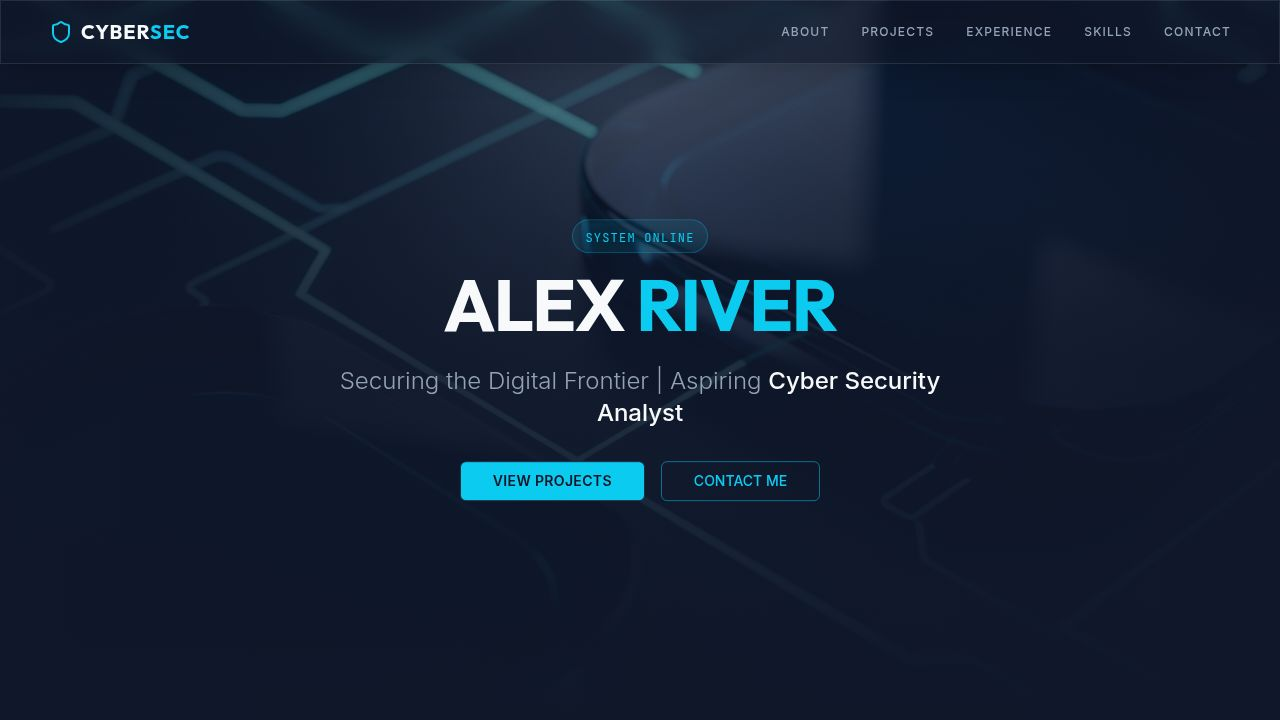
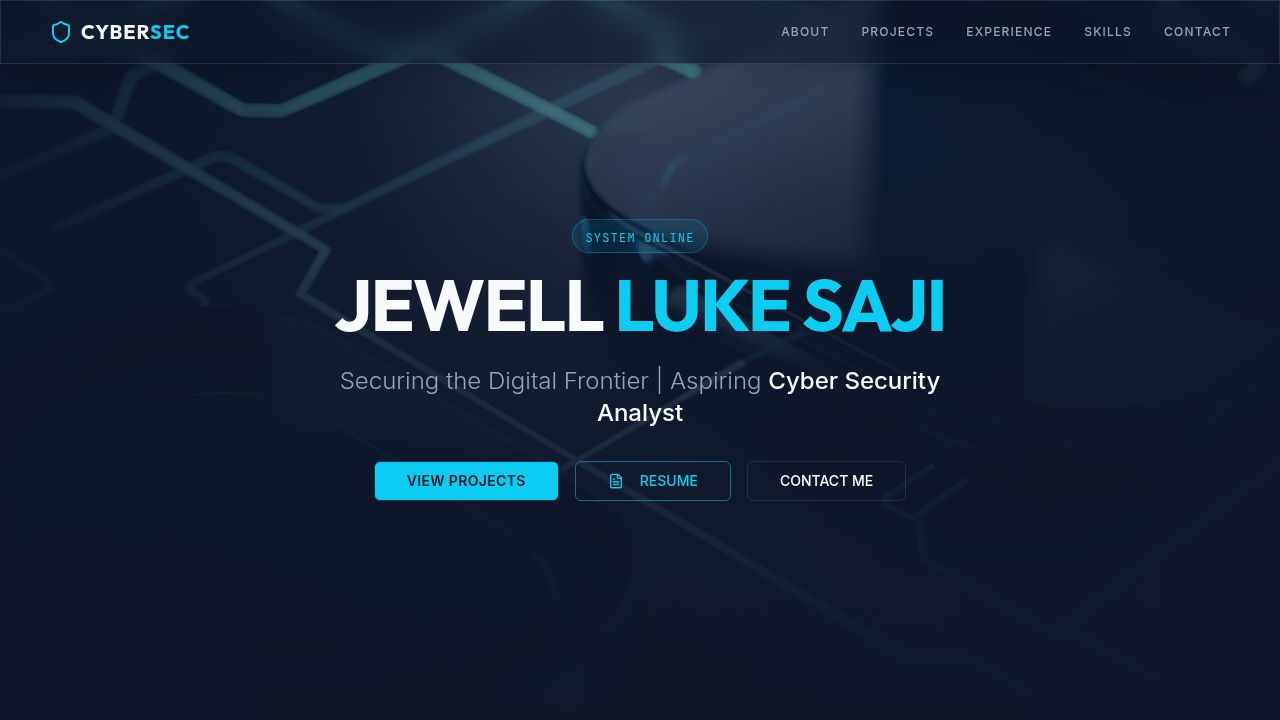
Update personal and project details with resume information
Update "About Me," "Education," and "Projects" sections with specific details from the user's resume, including education, experience, and project descriptions.

Replit-Commit-Author: Agent
Replit-Commit-Session-Id: 1b6a34a4-31a6-4b95-8f8d-f1db7a25d65b
Replit-Commit-Checkpoint-Type: full_checkpoint
Replit-Commit-Event-Id: 8cd7cf15-80bc-44f0-8134-2f22550af903
Replit-Commit-Screenshot-Url: https://storage.googleapis.com/screenshot-production-us-central1/002f4973-57d3-48a6-8c58-05c2b1284e81/1b6a34a4-31a6-4b95-8f8d-f1db7a25d65b/ySwC7YW
Replit-Helium-Checkpoint-Created: true

Changed region(s): [[0.25, 0.3667, 0.75, 0.4583], [0.2812, 0.6417, 0.6875, 0.7028]]

diff --git a/client/src/pages/home.tsx b/client/src/pages/home.tsx
@@ -158,18 +158,18 @@ export default function Home() {
             <div className="grid md:grid-cols-2 gap-12 items-center">
               <div className="space-y-6 text-muted-foreground leading-relaxed">
                 <p>
-                  I am a dedicated Cyber Security enthusiast with a passion for uncovering vulnerabilities and securing digital infrastructures. Currently finishing my degree in Computer Science with a specialization in Information Security.
+                  Certified cybersecurity professional with hands-on expertise in Vulnerability Assessment and Penetration Testing (VAPT). I specialize in host-based auditing, web application security testing, and offensive security methodologies.
                 </p>
                 <p>
-                  My journey began with a curiosity about how systems break, which evolved into a mission to learn how to fix and protect them. I actively participate in CTF competitions and spend my free time analyzing new malware trends.
+                  With a Top 1% ranking on TryHackMe and extensive experience in VAPT for startups, I leverage technical skills to identify and remediate security vulnerabilities. I am passionate about research and developing custom security tools.
                 </p>
                 
                 <div className="pt-4">
                   <h3 className="text-foreground font-semibold mb-3">Education</h3>
                   <div className="border-l-2 border-primary/30 pl-4">
-                    <h4 className="text-lg text-white">B.S. Computer Science</h4>
-                    <p className="text-sm">Tech University • 2021 - Present</p>
-                    <p className="text-xs mt-1 text-primary">Focus: Network Security & Cryptography</p>
+                    <h4 className="text-lg text-white">B.Sc Digital and Cyber Forensics</h4>
+                    <p className="text-sm">Rathinam College of Arts and Science • 2026</p>
+                    <p className="text-xs mt-1 text-primary">Focus: VAPT & Digital Forensics</p>
                   </div>
                 </div>
               </div>
@@ -211,14 +211,14 @@ export default function Home() {
               <div className="h-12 w-12 rounded-lg bg-primary/10 flex items-center justify-center mb-6">
                 <Terminal className="w-6 h-6 text-primary" />
               </div>
-              <h3 className="text-xl font-bold mb-2">Network Packet Sniffer</h3>
+              <h3 className="text-xl font-bold mb-2">Recon Automation Tool</h3>
               <p className="text-muted-foreground text-sm mb-4">
-                A Python-based tool built with Scapy to capture and analyze network traffic in real-time. Identifies HTTP headers and flags suspicious packets.
+                Python-based automation tool for pentest reconnaissance. Automates host scanning, directory enumeration, and subdomain discovery to reduce manual testing time by 60%.
               </p>
               <div className="flex flex-wrap gap-2 mb-6">
                 <span className="text-xs px-2 py-1 rounded bg-secondary text-primary border border-primary/20">Python</span>
-                <span className="text-xs px-2 py-1 rounded bg-secondary text-primary border border-primary/20">Scapy</span>
-                <span className="text-xs px-2 py-1 rounded bg-secondary text-primary border border-primary/20">Wireshark</span>
+                <span className="text-xs px-2 py-1 rounded bg-secondary text-primary border border-primary/20">Automation</span>
+                <span className="text-xs px-2 py-1 rounded bg-secondary text-primary border border-primary/20">Recon</span>
               </div>
               <a href="#" className="inline-flex items-center gap-2 text-sm font-medium hover:text-primary transition-colors">
                 View on GitHub <ExternalLink className="w-3 h-3" />
@@ -230,14 +230,14 @@ export default function Home() {
               <div className="h-12 w-12 rounded-lg bg-primary/10 flex items-center justify-center mb-6">
                 <Lock className="w-6 h-6 text-primary" />
               </div>
-              <h3 className="text-xl font-bold mb-2">Port Scanner V2</h3>
+              <h3 className="text-xl font-bold mb-2">Chess File Encryption</h3>
               <p className="text-muted-foreground text-sm mb-4">
-                Multi-threaded port scanner that identifies open ports and banner grabs service versions. Optimized for speed and low footprint.
+                Custom encryption system using chess move sequences to generate keys. Implements SHA-256/HKDF to harden sequences against guessing attacks.
               </p>
               <div className="flex flex-wrap gap-2 mb-6">
+                <span className="text-xs px-2 py-1 rounded bg-secondary text-primary border border-primary/20">Cryptography</span>
                 <span className="text-xs px-2 py-1 rounded bg-secondary text-primary border border-primary/20">Python</span>
-                <span className="text-xs px-2 py-1 rounded bg-secondary text-primary border border-primary/20">Socket</span>
-                <span className="text-xs px-2 py-1 rounded bg-secondary text-primary border border-primary/20">Threading</span>
+                <span className="text-xs px-2 py-1 rounded bg-secondary text-primary border border-primary/20">SHA-256</span>
               </div>
               <a href="#" className="inline-flex items-center gap-2 text-sm font-medium hover:text-primary transition-colors">
                 View on GitHub <ExternalLink className="w-3 h-3" />
@@ -249,17 +249,17 @@ export default function Home() {
               <div className="h-12 w-12 rounded-lg bg-primary/10 flex items-center justify-center mb-6">
                 <Shield className="w-6 h-6 text-primary" />
               </div>
-              <h3 className="text-xl font-bold mb-2">Encrypted Chat</h3>
+              <h3 className="text-xl font-bold mb-2">VAPT & CTF Portfolio</h3>
               <p className="text-muted-foreground text-sm mb-4">
-                End-to-end encrypted messaging application using AES-256. Ensures privacy and data integrity between clients.
+                Top 1% ranking on TryHackMe with 250+ completed challenges. Specialized in web application exploits, network penetration, and OWASP Top 10 vulnerabilities.
               </p>
               <div className="flex flex-wrap gap-2 mb-6">
-                <span className="text-xs px-2 py-1 rounded bg-secondary text-primary border border-primary/20">Node.js</span>
-                <span className="text-xs px-2 py-1 rounded bg-secondary text-primary border border-primary/20">React</span>
-                <span className="text-xs px-2 py-1 rounded bg-secondary text-primary border border-primary/20">CryptoJS</span>
+                <span className="text-xs px-2 py-1 rounded bg-secondary text-primary border border-primary/20">TryHackMe</span>
+                <span className="text-xs px-2 py-1 rounded bg-secondary text-primary border border-primary/20">HackTheBox</span>
+                <span className="text-xs px-2 py-1 rounded bg-secondary text-primary border border-primary/20">OWASP</span>
               </div>
-              <a href="#" className="inline-flex items-center gap-2 text-sm font-medium hover:text-primary transition-colors">
-                View on GitHub <ExternalLink className="w-3 h-3" />
+              <a href="https://tryhackme.com/p/jewell" target="_blank" rel="noopener noreferrer" className="inline-flex items-center gap-2 text-sm font-medium hover:text-primary transition-colors">
+                View Profile <ExternalLink className="w-3 h-3" />
               </a>
             </GlossyCard>
           </div>
@@ -278,40 +278,35 @@ export default function Home() {
             {/* Timeline Item */}
             <div className="relative md:flex gap-8 group">
               <div className="hidden md:block w-32 text-right pt-1 text-muted-foreground font-mono text-sm">
-                Jun 2024 - Present
+                12 Months
               </div>
               
               <div className="absolute left-[-37px] md:left-auto md:right-1/2 md:mr-[-6px] mt-1.5 w-4 h-4 rounded-full bg-background border-2 border-primary z-10 group-hover:bg-primary transition-colors shadow-[0_0_10px_var(--color-primary)]" />
               
               <div className="md:w-1/2 md:ml-auto">
-                <div className="md:hidden text-primary font-mono text-sm mb-1">Jun 2024 - Present</div>
-                <h3 className="text-xl font-bold text-white">Security Intern</h3>
-                <h4 className="text-primary mb-3">CyberDefense Corp</h4>
+                <div className="md:hidden text-primary font-mono text-sm mb-1">12 Months</div>
+                <h3 className="text-xl font-bold text-white">Cybersecurity Intern & VAPT Consultant</h3>
+                <h4 className="text-primary mb-3">Raise Smart</h4>
                 <p className="text-muted-foreground text-sm leading-relaxed mb-4">
-                  Assisted the SOC team in monitoring SIEM alerts and triaging potential incidents. Conducted weekly vulnerability scans using Nessus and prepared reports for the IT team.
+                  Conducted VAPT audits for clients and startup companies. Identified security vulnerabilities, assessed risks, and provided remediation recommendations to improve overall security posture.
                 </p>
-                <ul className="text-sm text-muted-foreground/80 list-disc list-inside space-y-1">
-                  <li>Analyzed 500+ security logs daily</li>
-                  <li>Automated log parsing scripts in Python</li>
-                  <li>Participated in Red Team simulation exercises</li>
-                </ul>
               </div>
             </div>
             
             {/* Timeline Item 2 */}
             <div className="relative md:flex gap-8 group">
               <div className="hidden md:block w-32 text-right pt-1 text-muted-foreground font-mono text-sm">
-                Jan 2023 - May 2024
+                1 Month
               </div>
               
               <div className="absolute left-[-37px] md:left-auto md:right-1/2 md:mr-[-6px] mt-1.5 w-4 h-4 rounded-full bg-background border-2 border-muted-foreground z-10 group-hover:border-primary transition-colors" />
               
               <div className="md:w-1/2 md:ml-auto">
-                <div className="md:hidden text-muted-foreground font-mono text-sm mb-1">Jan 2023 - May 2024</div>
-                <h3 className="text-xl font-bold text-white">IT Support Volunteer</h3>
-                <h4 className="text-primary mb-3">Local University Lab</h4>
+                <div className="md:hidden text-muted-foreground font-mono text-sm mb-1">1 Month</div>
+                <h3 className="text-xl font-bold text-white">Cybersecurity Intern</h3>
+                <h4 className="text-primary mb-3">Ozone CyberSecurity</h4>
                 <p className="text-muted-foreground text-sm leading-relaxed">
-                  Managed lab computers, ensuring latest security patches were installed. Helped students troubleshoot network connectivity issues and malware infections.
+                  Gained hands-on experience in network security assessment and OWASP Top 10 vulnerability testing. Participated in vulnerability assessment projects under senior professionals.
                 </p>
               </div>
             </div>
@@ -368,15 +363,29 @@ export default function Home() {
                   <li className="flex items-start gap-3">
                     <div className="mt-1 w-2 h-2 rounded-full bg-primary" />
                     <div>
-                      <div className="font-medium text-white">CompTIA Security+</div>
-                      <div className="text-xs text-muted-foreground">In Progress</div>
+                      <div className="font-medium text-white">eLearnSecurity Junior Penetration Tester (eJPT)</div>
+                      <div className="text-xs text-muted-foreground">INE</div>
                     </div>
                   </li>
                   <li className="flex items-start gap-3">
-                    <div className="mt-1 w-2 h-2 rounded-full bg-green-500" />
+                    <div className="mt-1 w-2 h-2 rounded-full bg-primary" />
                     <div>
-                      <div className="font-medium text-white">Google Cybersecurity Certificate</div>
-                      <div className="text-xs text-muted-foreground">Completed 2023</div>
+                      <div className="font-medium text-white">Ethical Hacking Associate</div>
+                      <div className="text-xs text-muted-foreground">RedTeam Hackers Academy</div>
+                    </div>
+                  </li>
+                  <li className="flex items-start gap-3">
+                    <div className="mt-1 w-2 h-2 rounded-full bg-primary" />
+                    <div>
+                      <div className="font-medium text-white">Junior Penetration Tester</div>
+                      <div className="text-xs text-muted-foreground">TryHackMe</div>
+                    </div>
+                  </li>
+                   <li className="flex items-start gap-3">
+                    <div className="mt-1 w-2 h-2 rounded-full bg-primary" />
+                    <div>
+                      <div className="font-medium text-white">Practical WebApp Security & Testing</div>
+                      <div className="text-xs text-muted-foreground">The Taggart Institute</div>
                     </div>
                   </li>
                 </ul>
